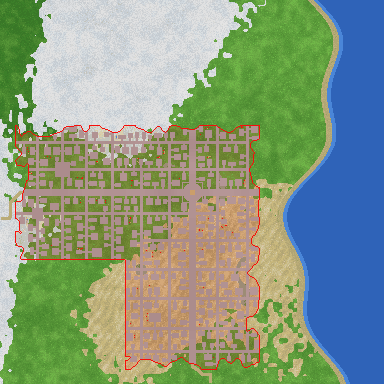
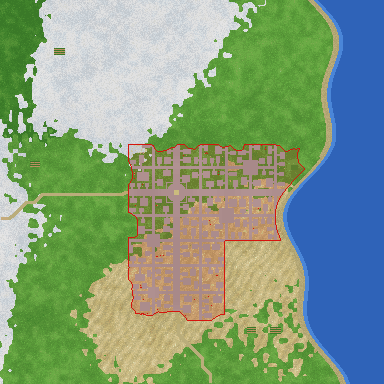
4B: cidade enorme menor (pegada 25-35%, caixa ate 45%) para sobrar espaco a POIs e cerco

Changed region(s): [[0.0, 0.3125, 0.8125, 1.0], [0.125, 0.125, 0.1875, 0.1562], [0.8125, 0.4062, 0.8438, 0.4375]]

diff --git a/js/modifiers/city-modifiers.js b/js/modifiers/city-modifiers.js
@@ -52,7 +52,9 @@ const CITY_FOOT = {
 
 // Cidade ENORME (etapa 4B; tile temático 'cidade', ?cenario=tile&tema=cidade; docs/features/8_tiles-e-vilas.md). Ocupa de 40% a 60% da ÁREA do tile
 // (em 384: lado de 243 a 297). Reaproveita buildCity com ruas em blocos, várias praças e formatos de pegada próprios. Padrões entre parênteses.
-// areaFrac: [mín, máx] da área do tile ocupada pela pegada (0.40 e 0.60). minHalf: raio mínimo (blocos) ao encolher quando o terreno não deixa (100).
+// areaFrac: [mín, máx] da área do tile ocupada pela pegada (0.25 e 0.35; a spec original era 0.40 a 0.60, reduzida para sobrar espaço aos POIs e ao cerco).
+// boxMax: máximo da área do tile ocupada pela CAIXA (o quadrado em volta da pegada; formatos magros ganham caixa maior, mas até aqui) (0.45).
+// minHalf: raio mínimo (blocos) ao encolher quando o terreno não deixa (70).
 // margin: folga (blocos) entre a caixa da cidade e a borda do tile, para o muro, a rampa e a faixa de árvores (14).
 // plazaOff: quanto a praça sai do centro da pegada (fração de `half`; ainda limitado pela folga do tile) (0.12). devMul: multiplica o desnível
 // aceito pela pegada (CITY_FOOT.maxDev), porque a cidade é grande e o terreno vira terraço (1.5). nudge: quanto o centro pode andar (16).
@@ -66,7 +68,7 @@ const CITY_FOOT = {
 // soldiers: soldados da cidade fora de guerra (10). civ: [mín, máx] de moradores (50, 70); a cidade é grande e precisa de gente nas ruas.
 // walls: tipos de muro sorteados (a cidade enorme sempre tem muro, para o formato aparecer); ?muro=pedra|paliçada|cerca força um.
 const CITY_HUGE = {
-  areaFrac: [0.40, 0.60], minHalf: 100, margin: 14, plazaOff: 0.12, devMul: 1.5, nudge: 16,
+  areaFrac: [0.25, 0.35], boxMax: 0.45, minHalf: 70, margin: 14, plazaOff: 0.12, devMul: 1.5, nudge: 16,
   shapes: { quadrado: 3, circulo: 2, losango: 1, oval: 2, cruz: 1.5, ele: 1.5, flor: 1.5 },
   edge: { base: 0.97, noise: 0.3, min: 0.9 }, blockStep: [22, 30], avenue: 3, street: 1, plazas: [2, 4], plazaP: [5, 7],
   density: 260, serviceSpread: 60, towerGap: 44, towerMax: 70, soldiers: 10, civ: [50, 70],
@@ -76,7 +78,7 @@ const CITY_HUGE = {
 // enchem menos a caixa (CITY_SHAPES[...].fill, relativo a 0.8 do quadrado) ganham caixa maior, até caber no tile (folga `margin`).
 function cityHugeHalf(rng, size, shape) {
   const f = rng.range(CITY_HUGE.areaFrac[0], CITY_HUGE.areaFrac[1]), fill = (CITY_SHAPES[shape] || { fill: 0.8 }).fill;
-  return Math.min(Math.floor((size - 1) / 2) - CITY_HUGE.margin, Math.floor(size * Math.sqrt(f) / 2 * Math.sqrt(0.8 / fill)));   // 0.8 = fill do quadrado (caixa de 243 a 297 em 384)
+  return Math.min(Math.floor((size - 1) / 2) - CITY_HUGE.margin, Math.floor(size * Math.sqrt(CITY_HUGE.boxMax) / 2), Math.floor(size * Math.sqrt(f) / 2 * Math.sqrt(0.8 / fill)));   // 0.8 = fill do quadrado
 }
 // Formato da pegada de uma cidade enorme: ?forma_cidade=<nome> ou sorteio por peso (rng).
 function cityHugeShape(rng) {

diff --git a/docs/ESTADO.md b/docs/ESTADO.md
@@ -5,7 +5,7 @@ Bilhete de passagem entre sessões e PCs: **leia no início, atualize no fim** (
 ## Agora
 - **Branch:** `mapa-mundi-update` (saiu da `factions-update`). **Save:** `SAVE_VERSION = 22` (inalterado).
 - **Fase atual:** redesenho do jogo em **Mapa Mundi + Mapas Locais** (feature 5/6). **A guerra (features 3 e 4 em `docs/features/`) está PAUSADA** até a etapa 10 do plano. Fases 4 (rodadas) e 5 (facções) prontas.
-- **Última atualização:** 2026-11-23 (sessão local; **sessão 4B FEITA**, cidade enorme). `?cenario=tile&tema=cidade` gera uma cidade enorme (caixa 243 a 357, pegada até ~50% do tile) com **7 formatos** (`CITY_SHAPES`: quadrado, círculo, losango, oval, cruz, L, flor), ruas em quarteirões, 2 a 4 praças extras, serviços espalhados, muro/torres na pegada, 50 a 70 moradores e 10 soldados. Tudo em `CITY_HUGE` (`city-modifiers.js`). Medido: geração 1,5 a 2,5 s no total (limite 5 s), construção 0,1 a 0,6 s, nav 2 ms, update ~0,9 ms; mundo normal idêntico (`mundo-hash`), smoke, `tests/tile.js` e `macro` OK. **Cenários para ver:** abra `cenarios-cidades.html` (servidor estático) ou use os atalhos de formato/relevo/muro na pausa -> Facções; `?relevo=plano|colinas|lago|rio|costa` é terreno de demonstração. Teste: `cd tests && node cidade-enorme.js`. **Não testado na tela pelo usuário.** Pendente na 4B: em terreno natural (sementes testadas) a pegada fica só em 7% a 35% do tile (água/relevo; a etapa 5 deve escolher tile adequado); cidade cortada por rio fica sem a parte separada (sem pontes internas); formatos de **vila** e cidades não esticadas pequenas ficam na 4C; `CITY_MULTI` não foi recalibrado.
+- **Última atualização:** 2026-11-23 (sessão local; **sessão 4B FEITA**, cidade enorme). `?cenario=tile&tema=cidade` gera uma cidade enorme (**reduzida a pedido: pegada 25 a 35% do tile, caixa até 45%**, para sobrar espaço a POIs e cerco; antes era 40 a 60%; medido 14% a 30% nos cenários) com **7 formatos** (`CITY_SHAPES`: quadrado, círculo, losango, oval, cruz, L, flor), ruas em quarteirões, 2 a 4 praças extras, serviços espalhados, muro/torres na pegada, 50 a 70 moradores e 10 soldados. Tudo em `CITY_HUGE` (`city-modifiers.js`). Medido: geração 1,5 a 2,5 s no total (limite 5 s), construção 0,1 a 0,6 s, nav 2 ms, update ~0,9 ms; mundo normal idêntico (`mundo-hash`), smoke, `tests/tile.js` e `macro` OK. **Cenários para ver:** abra `cenarios-cidades.html` (servidor estático) ou use os atalhos de formato/relevo/muro na pausa -> Facções; `?relevo=plano|colinas|lago|rio|costa` é terreno de demonstração. Teste: `cd tests && node cidade-enorme.js`. **Não testado na tela pelo usuário.** Pendente na 4B: em terreno natural (sementes testadas) a pegada fica só em 7% a 35% do tile (água/relevo; a etapa 5 deve escolher tile adequado); cidade cortada por rio fica sem a parte separada (sem pontes internas); formatos de **vila** e cidades não esticadas pequenas ficam na 4C; `CITY_MULTI` não foi recalibrado.
 - **Código novo:** cenário de teste `?cenario=batalha` (`js/tiletest.js`, `js/modifiers/map-modifiers.js`, `js/texts/map-texts.js`; `tests/batalha.js`): mapa de 320, sua cidade pequena no canto, cidade grande de outra facção com 30 soldados, 10 soldados seus, guerra declarada ao iniciar. Pequenos ganchos em `phys.js` (`W`), `world.js` (`tileTestOn`), `factions.js` (`genFactions` sem cidades NPC), `game.js` (`tileTestSample` em `frame`), `scenario.js`.
 - **Geração por reserva (feature 7, fases 1 a 6) é o PADRÃO desde 2026-11-23:** `?reserva=0` volta ao gerador antigo (comparar); onde abaixo está "só com `?reserva=1`", leia "por padrão". Muda o mundo de cada semente (saves antigos não casam). Smoke OK; ainda sem teste na tela.
 - **Etapa 2 do plano (arquitetura em camadas) FEITA, 2026-11-23:** `js/` em `core/`, `macro/`, `local/`, `ui/` (o que mistura camadas segue na raiz); `W`/`NCH` viraram `let` (`mapSetSize`), `MAP` é o mapa local ativo e `WORLD` alias (`mapUse`, `mapSync`), `scene` trocável (`sceneUse`); `genWorld` dividido em etapas (`worldInit`... `worldMeshStage`, `genRelief` em `reliefTerrain/reliefRivers/reliefBiomes`); `tests/macro/` roda a camada macro em Node. Mundo idêntico (`tests/mundo-hash.js`, sementes 11 e 5 com `?reserva=1`) e smoke OK. Detalhes em `docs/MAPA.md`. Não testado na tela pelo usuário.

diff --git a/docs/MAPA.md b/docs/MAPA.md
@@ -33,7 +33,7 @@ Pastas só organizam; a **ordem de carga** é a do `index.html` (não mudou). Os
 - Testes: `node tests/macro/tile.js`, `cd tests && node tile.js` (15 casos no navegador, 10 temas, batalhas, tile vazio, lado 384).
 
 **Etapa 4B (cidade enorme; `docs/features/8_tiles-e-vilas.md`; galeria `cenarios-cidades.html` na raiz):**
-- `modifiers/city-modifiers.js`: **`CITY_HUGE`** (fração da área 0,40 a 0,60, `minHalf`, `margin`, `plazaOff`, `devMul`, `nudge`, pesos dos `shapes`, `edge`, `blockStep`/`avenue`/`street`, `plazas`/`plazaP`, `density` 260, `serviceSpread` 60, `towerGap`/`towerMax`, `soldiers` 10, `civ` 50 a 70), `cityHugeHalf(rng,size,shape)` e `cityHugeShape(rng)` (`?forma_cidade=`). `map-modifiers.js`: `tileCityKind(tema)` ('enorme' no tema cidade, 'antiga' com `?cidade=1`, null = vazio), `tileEmptyOn(tema)`, `tileBare()` (tile sem POIs).
+- `modifiers/city-modifiers.js`: **`CITY_HUGE`** (fração da área da pegada 0,25 a 0,35 e `boxMax` 0,45 da caixa, `minHalf`, `margin`, `plazaOff`, `devMul`, `nudge`, pesos dos `shapes`, `edge`, `blockStep`/`avenue`/`street`, `plazas`/`plazaP`, `density` 260, `serviceSpread` 60, `towerGap`/`towerMax`, `soldiers` 10, `civ` 50 a 70), `cityHugeHalf(rng,size,shape)` e `cityHugeShape(rng)` (`?forma_cidade=`). `map-modifiers.js`: `tileCityKind(tema)` ('enorme' no tema cidade, 'antiga' com `?cidade=1`, null = vazio), `tileEmptyOn(tema)`, `tileBare()` (tile sem POIs).
 - `local/cityfoot.js`: **`CITY_SHAPES`** (quadrado, circulo, losango, oval, cruz, ele, flor: `plaza`, `fill`, `q(u,v,rot)`) e `cityShapeQ(c,x,z)`; `cityFootPlan` com `c.huge` mantém a caixa `half` fixa dentro do tile e põe o formato (`c.shape`, `c.shapeR/shapeO/shapeRot`) com a praça deslocada (no L, no cotovelo); amostra de 8 blocos (rápido). `cityFootCell` usa `CITY_HUGE.devMul`. `reserve.js`: encolhe até `CITY_HUGE.minHalf` e `reserveInvented` sai cedo dentro da pegada.
 - `local/city.js`: `buildCity` com `c.huge`: layout `'blocos'` (`cityHugeBlocks`: ruas paralelas de 22 a 30 blocos, T e becos, avenidas largas), praças extras (`cityMiniPlazaFloor`/`cityMiniPlazaDecor`, `c.plazaCount`), lotes sorteados (`cityLotSample`) em vez de listar todos, amostragem de pares de ruas soltas (`cityStride`), mais enfeites/árvores/cantinhos, `c.buildMs`. Torres do muro usam `CITY_HUGE.towerGap/towerMax`. `entities.js populateCities`: `CITY_HUGE.civ` moradores e só `CITY_HUGE.soldiers` soldados (na cidade de outra facção).
 - `local/world.js`: cidade do tema cidade nasce `c.huge` com `c.shape`; `win.bare` (tile sem POIs) em vez de `win.empty` para pular `reservePois`/`genPOIs`. `local/mapwin.js`: `reliefDemo` (**`?relevo=plano|colinas|lago|rio|costa`**), `tileCityLevel` (nível 5 = muro de pedra por padrão na cidade enorme; `?muro=pedra|palicada|cerca|nenhum`, `?nivel=`), `tileHugeGarrison` (10 soldados seus no quartel), painel com atalhos de formato/relevo/muro (`tileHugePanel`, `TXT_TILE_SHAPES` etc. em `map-texts.js`).

diff --git a/docs/features/8_tiles-e-vilas.md b/docs/features/8_tiles-e-vilas.md
@@ -118,6 +118,9 @@ Regra de posição: tema e comércio (pousada, taverna, entreposto) **perto da e
 - **[MEDIDO] Linha de base de geração** (Chromium sem janela, até o jogo rodar; 2 execuções): mapa 704 = **7,7 a 10,9 s** (~15 µs por bloco), mapa 640 = 6,6 s, cenário batalha (320, 2 cidades) = 1,2 s, `?cenario=tile` 256 = 1,1 s, 320 de cidade = 1,5 s. **Previsão para 384: ~2,2 s** sem POIs extras. **Limite proposto:** tile temático ≤ 4 s e cidade enorme ≤ 5 s nesse mesmo teste (ajustável).
 - **[ABERTO]** Onde fica a proporção de temas na criação do mundo: proposta `?temas=70` por URL agora, tela de menu depois (aguarda OK).
 
+## Revisão na 4B (2026-11-23)
+- **[DECIDIDO]** Cidade enorme: pegada **25 a 35%** do tile (antes 40 a 60%) e caixa **até 45%** (`CITY_HUGE.areaFrac`/`boxMax`), para sobrar anel livre a POIs e a zona de cerco. Lado típico 200 a 230.
+
 ## Pendente
 - Ligação do tile com rodadas, economia por tile e simulação fora da tela: etapas 7 e 8.
 - Anexação, carne e couro do tile Animais, bônus extra do tile de vila: etapa 8.
